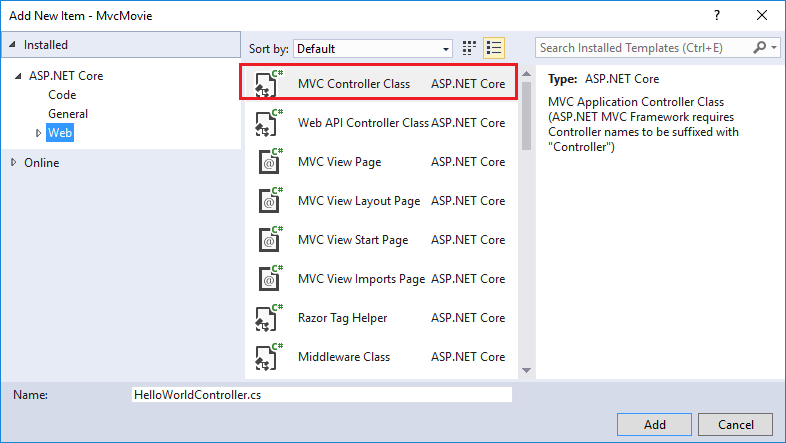
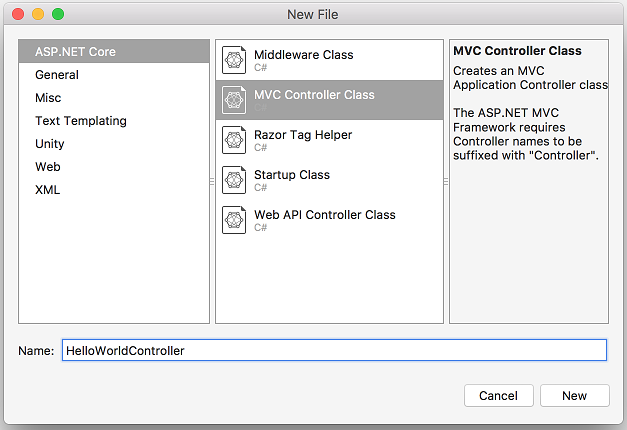
work

diff --git a/aspnetcore/tutorials/first-mvc-app-mac/adding-controller.md b/aspnetcore/tutorials/first-mvc-app-mac/adding-controller.md
@@ -10,81 +10,24 @@ ms.topic: article
 ms.assetid: e04b6666-d0de-4d99-b78f-d6a0c4634a87
 ms.technology: aspnet
 ms.prod: asp.net-core
-uid: tutorials/first-mvc-app/adding-controller
+uid: tutorials/first-mvc-app-mac/adding-controller
 ---
 
 [!INCLUDE[adding-controller](../../includes/mvc-intro/adding-controller1.md)]
 
-* In **Solution Explorer**, right-click **Controllers > Add > New Item**
+## Add a controller
+
+In **Solution Explorer**, right-click **Controllers > Add > New File**.
 
 ![Contextual menu](adding-controller/_static/add_controller.png)
 
-* Select **MVC Controller Class**
-* In the **Add New Item** dialog, enter **HelloWorldController**.
+Select **ASP.NET Core** and **MVC Controller Class**.
+
+Name the controller **HelloWorldController**.
 
 ![Add MVC controller and name it](adding-controller/_static/ac.png)
 
-Replace the contents of *Controllers/HelloWorldController.cs* with the following:
-
-[!code-csharp[Main](../first-mvc-app/start-mvc/sample/MvcMovie/Controllers/HelloWorldController.cs?name=snippet_1)]
-
-Every `public` method in a controller is callable as an HTTP endpoint. In the sample above, both methods return a string.  Note the comments preceding each method.
-
-An HTTP endpoint is a targetable URL in the web application, such as `http://localhost:1234/HelloWorld`, and combines the protocol used: `HTTP`, the network location of the web server (including the TCP port): `localhost:1234` and the target URI `HelloWorld`.
-
-The first comment states this is an [HTTP GET](http://www.w3schools.com/tags/ref_httpmethods.asp) method that is invoked by appending "/HelloWorld/" to the base URL. The second comment specifies an [HTTP GET](http://www.w3.org/Protocols/rfc2616/rfc2616-sec9.html) method that is invoked by appending "/HelloWorld/Welcome/" to the URL. Later on in the tutorial we'll use the scaffolding engine to generate `HTTP POST` methods.
-
-Run the app in non-debug mode (press Ctrl+F5) and append "HelloWorld" to the path in the address bar. (In the image below, `http://localhost:5000/HelloWorld` is used, but you'll have to replace *5000* with the port number of your app.) The `Index` method returns a string. You told the system to return some HTML, and it did!
-
-![Browser window showing an application response of This is my default action](adding-controller/_static/hell1.png)
-
-MVC invokes controller classes (and the action methods within them) depending on the incoming URL. The default [URL routing logic](../../mvc/controllers/routing.md) used by MVC uses a format like this to determine what code to invoke:
-
-`/[Controller]/[ActionName]/[Parameters]`
-
-You set the format for routing in the *Startup.cs* file.
-
-[!code-csharp[Main](../first-mvc-app/start-mvc/sample/MvcMovie/Startup.cs?name=snippet_1&highlight=5)]
-
-When you run the app and don't supply any URL segments, it defaults to the "Home" controller and the "Index" method specified in the template line highlighted above.
-
-The first URL segment determines the controller class to run. So `localhost:xxxx/HelloWorld` maps to the `HelloWorldController` class. The second part of the URL segment determines the action method on the class. So `localhost:xxxx/HelloWorld/Index` would cause the `Index` method of the `HelloWorldController` class to run. Notice that we only had to browse to `localhost:xxxx/HelloWorld` and the `Index` method was called by default. This is because `Index` is the default method that will be called on a controller if a method name is not explicitly specified. The third part of the URL segment ( `id`) is for route data. We'll see route data later on in this tutorial.
-
-Browse to `http://localhost:xxxx/HelloWorld/Welcome`. The `Welcome` method runs and returns the string "This is the Welcome action method...". For this URL, the controller is `HelloWorld` and `Welcome` is the action method. We haven't used the `[Parameters]` part of the URL yet.
-
-![Browser window showing an application response of This is the Welcome action method](adding-controller/_static/welcome.png)
-
-Let's modify the example slightly so that you can pass some parameter information  from the URL to the controller (for example, `/HelloWorld/Welcome?name=Scott&numtimes=4`).  Change the `Welcome` method  to include two parameters as shown below. Note that the code uses the C# optional-parameter feature to indicate that the `numTimes` parameter defaults to 1 if no value is passed for that parameter.
-
-[!code-csharp[Main](../first-mvc-app/start-mvc/sample/MvcMovie/Controllers/HelloWorldController.cs?name=snippet_2)]
-
-The code above uses `HtmlEncoder.Default.Encode` to protect the app from malicious input (namely JavaScript). It also uses [Interpolated Strings](https://docs.microsoft.com/dotnet/articles/csharp/language-reference/keywords/interpolated-strings).
-
-In Visual Studio, in non-debug mode (Ctrl+F5), you don't need to build the app after changing  code. Just save the file, refresh your browser and you can see the changes.
-
-Run your app and browse to:
-
-   `http://localhost:xxxx/HelloWorld/Welcome?name=Rick&numtimes=4`
-
-(Replace xxxx with your port number.) You can try different values for `name` and `numtimes` in  the URL. The MVC [model binding](../../mvc/models/model-binding.md) system automatically maps the named parameters from  the query string in the address bar to parameters in your method. See [Model Binding](../../mvc/models/model-binding.md) for more information.
-
-![Browser window showing an application response of Hello Rick, NumTimes is: 4](adding-controller/_static/rick4.png)
-
-In the sample above, the URL segment (`Parameters`) is not used, the `name` and `numTimes` parameters are passed as [query strings](http://en.wikipedia.org/wiki/Query_string). The `?` (question mark) in the above URL is a separator, and the query strings follow. The `&` character separates query strings.
-
-Replace the `Welcome` method with the following code:
-
-[!code-csharp[Main](../first-mvc-app/start-mvc/sample/MvcMovie/Controllers/HelloWorldController.cs?name=snippet_3)]
-
-Run the app and enter the following URL:  `http://localhost:xxx/HelloWorld/Welcome/3?name=Rick`
-
-![Browser window showing an application response of Hello Rick, ID: 3](adding-controller/_static/rick_routedata.png)
-
-This time the third URL segment  matched the route parameter `id`. The `Welcome`  method contains a parameter  `id` that matched the URL template in the `MapRoute` method. The trailing `?`  (in `id?`) indicates the `id` parameter is optional.
-
-[!code-csharp[Main](../first-mvc-app/start-mvc/sample/MvcMovie/Startup.cs?name=snippet_1&highlight=5)]
-
-In these examples the controller has been doing the "VC" portion  of MVC - that is, the view and controller work. The controller is returning HTML  directly. Generally you don't want controllers returning HTML directly, since  that becomes very cumbersome to code and maintain. Instead we'll typically use a separate Razor view template file to help generate the HTML response. We'll do that in the next tutorial.
+[!INCLUDE[adding-controller2](../../includes/mvc-intro/adding-controller2.md)]
 
 >[!div class="step-by-step"]
 [Previous](../first-mvc-app/start-mvc.md)

diff --git a/aspnetcore/tutorials/first-mvc-app/adding-controller.md b/aspnetcore/tutorials/first-mvc-app/adding-controller.md
@@ -13,7 +13,7 @@ ms.prod: asp.net-core
 uid: tutorials/first-mvc-app/adding-controller
 ---
 
-[!INCLUDE[adding-controller](../../includes/mvc-intro/adding-controller1.md)]
+[!INCLUDE[adding-controller1](../../includes/mvc-intro/adding-controller1.md)]
 
 * In **Solution Explorer**, right-click **Controllers > Add > New Item**
 
@@ -24,67 +24,9 @@ uid: tutorials/first-mvc-app/adding-controller
 
 ![Add MVC controller and name it](adding-controller/_static/ac.png)
 
-Replace the contents of *Controllers/HelloWorldController.cs* with the following:
-
-[!code-csharp[Main](start-mvc/sample/MvcMovie/Controllers/HelloWorldController.cs?name=snippet_1)]
-
-Every `public` method in a controller is callable as an HTTP endpoint. In the sample above, both methods return a string.  Note the comments preceding each method.
-
-An HTTP endpoint is a targetable URL in the web application, such as `http://localhost:1234/HelloWorld`, and combines the protocol used: `HTTP`, the network location of the web server (including the TCP port): `localhost:1234` and the target URI `HelloWorld`.
-
-The first comment states this is an [HTTP GET](http://www.w3schools.com/tags/ref_httpmethods.asp) method that is invoked by appending "/HelloWorld/" to the base URL. The second comment specifies an [HTTP GET](http://www.w3.org/Protocols/rfc2616/rfc2616-sec9.html) method that is invoked by appending "/HelloWorld/Welcome/" to the URL. Later on in the tutorial we'll use the scaffolding engine to generate `HTTP POST` methods.
-
-Run the app in non-debug mode (press Ctrl+F5) and append "HelloWorld" to the path in the address bar. (In the image below, `http://localhost:5000/HelloWorld` is used, but you'll have to replace *5000* with the port number of your app.) The `Index` method returns a string. You told the system to return some HTML, and it did!
-
-![Browser window showing an application response of This is my default action](adding-controller/_static/hell1.png)
-
-MVC invokes controller classes (and the action methods within them) depending on the incoming URL. The default [URL routing logic](../../mvc/controllers/routing.md) used by MVC uses a format like this to determine what code to invoke:
-
-`/[Controller]/[ActionName]/[Parameters]`
-
-You set the format for routing in the *Startup.cs* file.
-
-[!code-csharp[Main](start-mvc/sample/MvcMovie/Startup.cs?name=snippet_1&highlight=5)]
-
-When you run the app and don't supply any URL segments, it defaults to the "Home" controller and the "Index" method specified in the template line highlighted above.
-
-The first URL segment determines the controller class to run. So `localhost:xxxx/HelloWorld` maps to the `HelloWorldController` class. The second part of the URL segment determines the action method on the class. So `localhost:xxxx/HelloWorld/Index` would cause the `Index` method of the `HelloWorldController` class to run. Notice that we only had to browse to `localhost:xxxx/HelloWorld` and the `Index` method was called by default. This is because `Index` is the default method that will be called on a controller if a method name is not explicitly specified. The third part of the URL segment ( `id`) is for route data. We'll see route data later on in this tutorial.
-
-Browse to `http://localhost:xxxx/HelloWorld/Welcome`. The `Welcome` method runs and returns the string "This is the Welcome action method...". For this URL, the controller is `HelloWorld` and `Welcome` is the action method. We haven't used the `[Parameters]` part of the URL yet.
-
-![Browser window showing an application response of This is the Welcome action method](adding-controller/_static/welcome.png)
-
-Let's modify the example slightly so that you can pass some parameter information  from the URL to the controller (for example, `/HelloWorld/Welcome?name=Scott&numtimes=4`).  Change the `Welcome` method  to include two parameters as shown below. Note that the code uses the C# optional-parameter feature to indicate that the `numTimes` parameter defaults to 1 if no value is passed for that parameter.
-
-[!code-csharp[Main](start-mvc/sample/MvcMovie/Controllers/HelloWorldController.cs?name=snippet_2)]
-
-The code above uses `HtmlEncoder.Default.Encode` to protect the app from malicious input (namely JavaScript). It also uses [Interpolated Strings](https://docs.microsoft.com/dotnet/articles/csharp/language-reference/keywords/interpolated-strings).
+[!INCLUDE[adding-controller2](../../includes/mvc-intro/adding-controller2.md)]
 
 In Visual Studio, in non-debug mode (Ctrl+F5), you don't need to build the app after changing  code. Just save the file, refresh your browser and you can see the changes.
-
-Run your app and browse to:
-
-   `http://localhost:xxxx/HelloWorld/Welcome?name=Rick&numtimes=4`
-
-(Replace xxxx with your port number.) You can try different values for `name` and `numtimes` in  the URL. The MVC [model binding](../../mvc/models/model-binding.md) system automatically maps the named parameters from  the query string in the address bar to parameters in your method. See [Model Binding](../../mvc/models/model-binding.md) for more information.
-
-![Browser window showing an application response of Hello Rick, NumTimes is: 4](adding-controller/_static/rick4.png)
-
-In the sample above, the URL segment (`Parameters`) is not used, the `name` and `numTimes` parameters are passed as [query strings](http://en.wikipedia.org/wiki/Query_string). The `?` (question mark) in the above URL is a separator, and the query strings follow. The `&` character separates query strings.
-
-Replace the `Welcome` method with the following code:
-
-[!code-csharp[Main](start-mvc/sample/MvcMovie/Controllers/HelloWorldController.cs?name=snippet_3)]
-
-Run the app and enter the following URL:  `http://localhost:xxx/HelloWorld/Welcome/3?name=Rick`
-
-![Browser window showing an application response of Hello Rick, ID: 3](adding-controller/_static/rick_routedata.png)
-
-This time the third URL segment  matched the route parameter `id`. The `Welcome`  method contains a parameter  `id` that matched the URL template in the `MapRoute` method. The trailing `?`  (in `id?`) indicates the `id` parameter is optional.
-
-[!code-csharp[Main](start-mvc/sample/MvcMovie/Startup.cs?name=snippet_1&highlight=5)]
-
-In these examples the controller has been doing the "VC" portion  of MVC - that is, the view and controller work. The controller is returning HTML  directly. Generally you don't want controllers returning HTML directly, since  that becomes very cumbersome to code and maintain. Instead we'll typically use a separate Razor view template file to help generate the HTML response. We'll do that in the next tutorial.
 
 >[!div class="step-by-step"]
 [Previous](start-mvc.md)

diff --git a/aspnetcore/includes/mvc-intro/adding-controller2.md b/aspnetcore/includes/mvc-intro/adding-controller2.md
@@ -1,0 +1,63 @@
+Replace the contents of *Controllers/HelloWorldController.cs* with the following:
+
+[!code-csharp[Main](../../tutorials/first-mvc-app/start-mvc/sample/MvcMovie/Controllers/HelloWorldController.cs?name=snippet_1)]
+
+Every `public` method in a controller is callable as an HTTP endpoint. In the sample above, both methods return a string.  Note the comments preceding each method.
+
+An HTTP endpoint is a targetable URL in the web application, such as `http://localhost:1234/HelloWorld`, and combines the protocol used: `HTTP`, the network location of the web server (including the TCP port): `localhost:1234` and the target URI `HelloWorld`.
+
+The first comment states this is an [HTTP GET](http://www.w3schools.com/tags/ref_httpmethods.asp) method that is invoked by appending "/HelloWorld/" to the base URL. The second comment specifies an [HTTP GET](http://www.w3.org/Protocols/rfc2616/rfc2616-sec9.html) method that is invoked by appending "/HelloWorld/Welcome/" to the URL. Later on in the tutorial we'll use the scaffolding engine to generate `HTTP POST` methods.
+
+Run the app in non-debug mode (press Ctrl+F5) and append "HelloWorld" to the path in the address bar. (In the image below, `http://localhost:5000/HelloWorld` is used, but you'll have to replace *5000* with the port number of your app.) The `Index` method returns a string. You told the system to return some HTML, and it did!
+
+![Browser window showing an application response of This is my default action](../../tutorials/first-mvc-app/adding-controller/_static/hell1.png)
+
+MVC invokes controller classes (and the action methods within them) depending on the incoming URL. The default [URL routing logic](../../mvc/controllers/routing.md) used by MVC uses a format like this to determine what code to invoke:
+
+`/[Controller]/[ActionName]/[Parameters]`
+
+You set the format for routing in the *Startup.cs* file.
+
+[!code-csharp[Main](../../tutorials/first-mvc-app/start-mvc/sample/MvcMovie/Startup.cs?name=snippet_1&highlight=5)]
+
+When you run the app and don't supply any URL segments, it defaults to the "Home" controller and the "Index" method specified in the template line highlighted above.
+
+The first URL segment determines the controller class to run. So `localhost:xxxx/HelloWorld` maps to the `HelloWorldController` class. The second part of the URL segment determines the action method on the class. So `localhost:xxxx/HelloWorld/Index` would cause the `Index` method of the `HelloWorldController` class to run. Notice that we only had to browse to `localhost:xxxx/HelloWorld` and the `Index` method was called by default. This is because `Index` is the default method that will be called on a controller if a method name is not explicitly specified. The third part of the URL segment ( `id`) is for route data. We'll see route data later on in this tutorial.
+
+Browse to `http://localhost:xxxx/HelloWorld/Welcome`. The `Welcome` method runs and returns the string "This is the Welcome action method...". For this URL, the controller is `HelloWorld` and `Welcome` is the action method. We haven't used the `[Parameters]` part of the URL yet.
+
+![Browser window showing an application response of This is the Welcome action method](../../tutorials/first-mvc-app/adding-controller/_static/welcome.png)
+
+Modify the code to pass some parameter information from the URL to the controller. For example, `/HelloWorld/Welcome?name=Rick&numtimes=4`. Change the `Welcome` method to include two parameters as shown in the following code. 
+
+[!code-csharp[Main](../../tutorials/first-mvc-app/start-mvc/sample/MvcMovie/Controllers/HelloWorldController.cs?name=snippet_2)]
+
+The preceding code:
+
+* Uses the C# optional-parameter feature to indicate that the `numTimes` parameter defaults to 1 if no value is passed for that parameter.
+* Uses`HtmlEncoder.Default.Encode` to protect the app from malicious input (namely JavaScript). 
+* Uses [Interpolated Strings](https://docs.microsoft.com/dotnet/articles/csharp/language-reference/keywords/interpolated-strings).
+
+Run your app and browse to:
+
+   `http://localhost:xxxx/HelloWorld/Welcome?name=Rick&numtimes=4`
+
+(Replace xxxx with your port number.) You can try different values for `name` and `numtimes` in  the URL. The MVC [model binding](../../mvc/models/model-binding.md) system automatically maps the named parameters from  the query string in the address bar to parameters in your method. See [Model Binding](../../mvc/models/model-binding.md) for more information.
+
+![Browser window showing an application response of Hello Rick, NumTimes is: 4](../../tutorials/first-mvc-app/adding-controller/_static/rick4.png)
+
+In the sample above, the URL segment (`Parameters`) is not used, the `name` and `numTimes` parameters are passed as [query strings](http://en.wikipedia.org/wiki/Query_string). The `?` (question mark) in the above URL is a separator, and the query strings follow. The `&` character separates query strings.
+
+Replace the `Welcome` method with the following code:
+
+[!code-csharp[Main](../../tutorials/first-mvc-app/start-mvc/sample/MvcMovie/Controllers/HelloWorldController.cs?name=snippet_3)]
+
+Run the app and enter the following URL:  `http://localhost:xxx/HelloWorld/Welcome/3?name=Rick`
+
+![Browser window showing an application response of Hello Rick, ID: 3](../../tutorials/first-mvc-app/adding-controller/_static/rick_routedata.png)
+
+This time the third URL segment  matched the route parameter `id`. The `Welcome`  method contains a parameter  `id` that matched the URL template in the `MapRoute` method. The trailing `?`  (in `id?`) indicates the `id` parameter is optional.
+
+[!code-csharp[Main](../../tutorials/first-mvc-app/start-mvc/sample/MvcMovie/Startup.cs?name=snippet_1&highlight=5)]
+
+In these examples the controller has been doing the "VC" portion  of MVC - that is, the view and controller work. The controller is returning HTML  directly. Generally you don't want controllers returning HTML directly, since  that becomes very cumbersome to code and maintain. Instead we'll typically use a separate Razor view template file to help generate the HTML response. We'll do that in the next tutorial.

diff --git a/aspnetcore/tutorials/first-mvc-app-xplat/adding-controller.md b/aspnetcore/tutorials/first-mvc-app-xplat/adding-controller.md
@@ -18,68 +18,7 @@ uid: tutorials/first-mvc-app-xplat/adding-controller
 
  ![Contextual menu](adding-controller/_static/new_file.png)
 
-* Name the file *HelloWorldController.cs*
-
-Replace the contents of *Controllers/HelloWorldController.cs* with the following:
-
-[!code-csharp[Main](../first-mvc-app/start-mvc/sample/MvcMovie/Controllers/HelloWorldController.cs?name=snippet_1)]
-
-Every `public` method in a controller is callable as an HTTP endpoint. In the sample above, both methods return a string.  Note the comments preceding each method.
-
-The first comment states this is an [HTTP GET](http://www.w3schools.com/tags/ref_httpmethods.asp) method that is invoked by appending "/HelloWorld/" to the base URL. The second comment specifies an [HTTP GET](http://www.w3.org/Protocols/rfc2616/rfc2616-sec9.html) method that is invoked by appending "/HelloWorld/Welcome/" to the URL. Later on in the tutorial we'll use the scaffolding engine to generate `HTTP POST` methods.
-
-Run the app and navigate to http://localhost:5000/HelloWorld
-
-The `Index` method returns a string. You told the system to return some HTML, and it did!
-
-![Browser window showing an application response of This is my default action](../first-mvc-app/adding-controller/_static/hell1.png)
-
-MVC invokes controller classes (and the action methods within them) depending on the incoming URL. The default [URL routing logic](../../mvc/controllers/routing.md) used by MVC uses a format like this to determine what code to invoke:
-
-`/[Controller]/[ActionName]/[Parameters]`
-
-You set the format for routing in the *Startup.cs* file.
-
-[!code-csharp[Main](../first-mvc-app/start-mvc/sample/MvcMovie/Startup.cs?name=snippet_1&highlight=5)]
-
-When you run the app and don't supply any URL segments, it defaults to the "Home" controller and the "Index" method specified in the template line highlighted above.
-
-The first URL segment determines the controller class to run. So `localhost:5000/HelloWorld` maps to the `HelloWorldController` class. The second part of the URL segment determines the action method on the class. So `localhost:5000/HelloWorld/Index` would cause the `Index` method of the `HelloWorldController` class to run. Notice that we only had to browse to `localhost:5000/HelloWorld` and the `Index` method was called by default. This is because `Index` is the default method that will be called on a controller if a method name is not explicitly specified. The third part of the URL segment ( `id`) is for route data. We'll see route data later on in this tutorial.
-
-Browse to http://localhost:5000/HelloWorld/Welcome
-The `Welcome` method runs and returns the string "This is the Welcome action method...". For this URL, the controller is `HelloWorld` and `Welcome` is the action method. We haven't used the `[Parameters]` part of the URL yet.
-
-![Browser window showing an application response of This is the Welcome action method](../first-mvc-app/adding-controller/_static/welcome.png)
-
-Let's modify the example slightly so that you can pass some parameter information  from the URL to the controller (for example, `/HelloWorld/Welcome?name=Scott&numtimes=4`).  Change the `Welcome` method  to include two parameters as shown below. Note that the code uses the C# optional-parameter feature to indicate that the `numTimes` parameter defaults to 1 if no value is passed for that parameter.
-
-[!code-csharp[Main](../first-mvc-app/start-mvc/sample/MvcMovie/Controllers/HelloWorldController.cs?name=snippet_2)]
-
-The code above uses `HtmlEncoder.Default.Encode` to protect the app from malicious input (namely JavaScript). It also uses [Interpolated Strings](https://docs.microsoft.com/dotnet/articles/csharp/language-reference/keywords/interpolated-strings).
-
-Run the app and browse to:
-
-   http://localhost:5000/HelloWorld/Welcome?name=Rick&numtimes=4
-
-You can try different values for `name` and `numtimes` in  the URL. The MVC [model binding](xref:mvc/models/model-binding) system automatically maps the named parameters from  the query string in the address bar to parameters in your method. See [Model Binding](xref:mvc/models/model-binding) for more information.
-
-![Browser window showing an application response of Hello Rick, NumTimes is: 4](../first-mvc-app/adding-controller/_static/rick4.png)
-
-In the sample above, the URL segment (`Parameters`) is not used, the `name` and `numTimes` parameters are passed as [query strings](http://en.wikipedia.org/wiki/Query_string). The `?` (question mark) in the above URL is a separator, and the query strings follow. The `&` character separates query strings.
-
-Replace the `Welcome` method with the following code:
-
-[!code-csharp[Main](../first-mvc-app/start-mvc/sample/MvcMovie/Controllers/HelloWorldController.cs?name=snippet_3)]
-
-Run the app and enter the following URL:  `http://localhost:5000/HelloWorld/Welcome/3?name=Rick`
-
-![Browser window showing an application response of Hello Rick, ID: 3](../first-mvc-app/adding-controller/_static/rick_routedata.png)
-
-This time the third URL segment  matched the route parameter `id`. The `Welcome`  method contains a parameter  `id` that matched the URL template in the `MapRoute` method. The trailing `?`  (in `id?`) indicates the `id` parameter is optional.
-
-[!code-csharp[Main](../first-mvc-app/start-mvc/sample/MvcMovie/Startup.cs?name=snippet_1&highlight=5)]
-
-In these examples the controller has been doing the "VC" portion  of MVC - that is, the view and controller work. The controller is returning HTML  directly. Generally you don't want controllers returning HTML directly, since  that becomes very cumbersome to code and maintain. Instead we'll typically use a separate Razor view template file to help generate the HTML response.
+[!INCLUDE[adding-controller2](../../includes/mvc-intro/adding-controller2.md)]
 
 >[!div class="step-by-step"]
 [Previous - Add a controller](start-mvc.md)

diff --git a/aspnetcore/includes/mvc-intro/adding-controller1.md b/aspnetcore/includes/mvc-intro/adding-controller1.md
@@ -12,5 +12,5 @@ The Model-View-Controller (MVC) architectural pattern separates an app into thre
 
 The MVC pattern helps you create apps that separate the different aspects of the app (input logic, business logic, and UI logic), while providing a loose coupling between these elements. The pattern specifies where each kind of logic should be located in the app. The UI logic belongs in the view. Input logic belongs in the controller. Business logic belongs in the model. This separation helps you manage complexity when you build an app, because it enables you to work on one aspect of the implementation at a time without impacting the code of another. For example, you can work on the view code without depending on the business logic code.
 
-We cover all these concepts in this tutorial series and show you how to use them to build a movie app. The MVC project contains folders for the *Controllers* and *Views*. A *Models* folder will be added in a later step.
+We cover these concepts in this tutorial series and show you how to use them to build a movie app. The MVC project contains folders for the *Controllers* and *Views*. A *Models* folder will be added in a later step.
 
